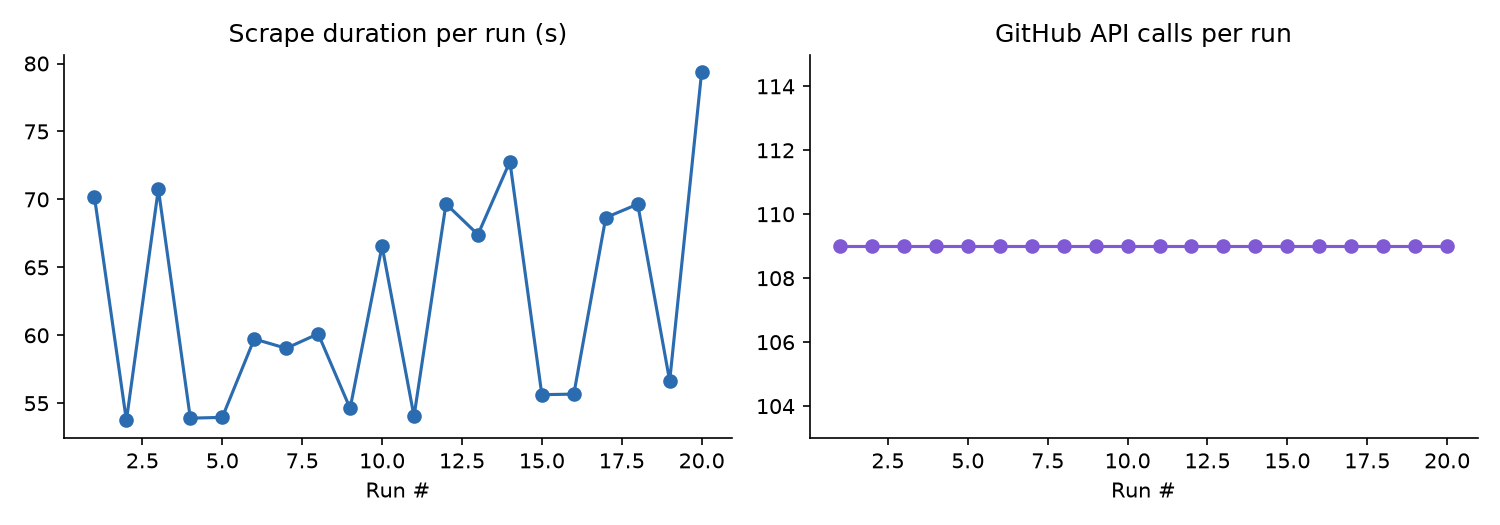
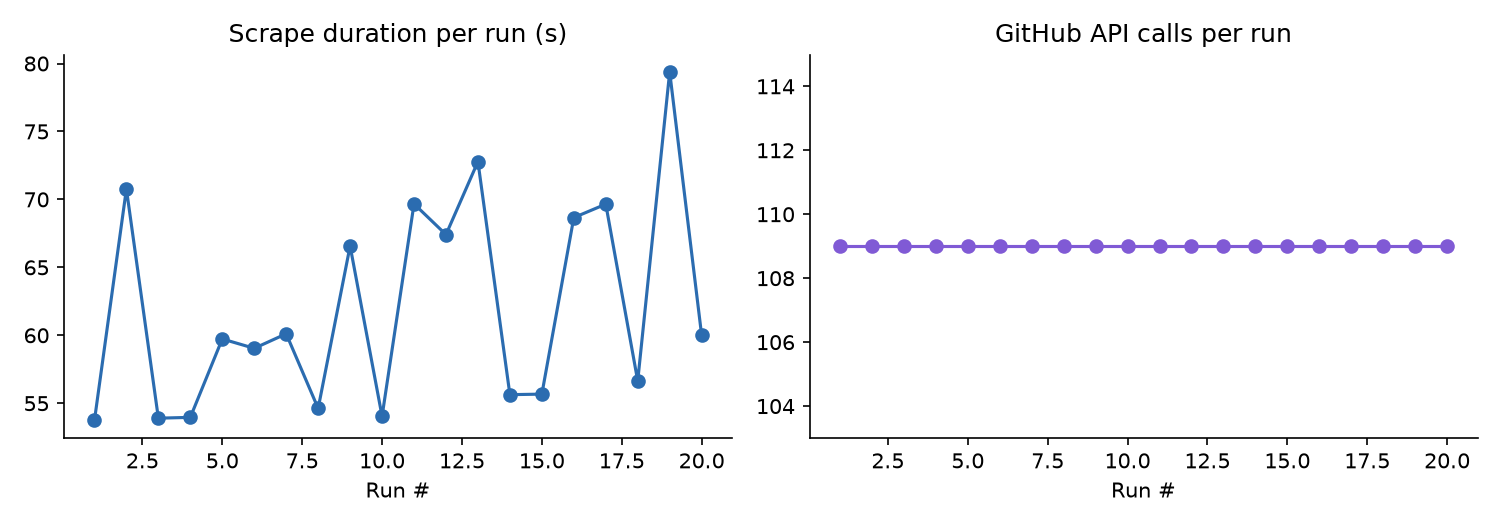
Weekly issue tracker refresh

Changed region(s): [[0.0613, 0.3048, 0.368, 0.8229], [0.3373, 0.1219, 0.4907, 0.7619]]

diff --git a/README.md b/README.md
@@ -81,7 +81,7 @@ See [CONTRIBUTING.md](CONTRIBUTING.md) for the full contributor workflow — inc
 
 <!-- TRACKER:START -->
 
-_Last updated: 2026-08-10 07:02 UTC_
+_Last updated: 2026-08-10 08:45 UTC_
 
 _Tracking **18** upstream repos, **379** relevant open issues._
 
@@ -125,11 +125,11 @@ _Tracking **18** upstream repos, **379** relevant open issues._
 | Score | Issue | Labels | Comments | Updated |
 |---|---|---|---|---|
 | ★★☆☆☆ | [#12541](https://github.com/ansible-collections/community.general/issues/12541) golang_package module cannot properly manage commands with main package at root | bug, module, plugins | 2 | 2026-08-08 |
-| ★★☆☆☆ | [#12530](https://github.com/ansible-collections/community.general/issues/12530) terraform displaying plan name twice for return value for ```command``` | bug, module, plugins | 2 | 2026-08-06 |
 | ★★☆☆☆ | [#9283](https://github.com/ansible-collections/community.general/issues/9283) ufw ordered rules | bug, module, plugins | 4 | 2026-08-05 |
 | ★★☆☆☆ | [#12513](https://github.com/ansible-collections/community.general/issues/12513) krb_ticket only checks for ticket existance, not expiration | bug, module, plugins | 3 | 2026-08-03 |
 | ★★☆☆☆ | [#8481](https://github.com/ansible-collections/community.general/issues/8481) Parted won't resize in use partition | bug, module, plugins | 7 | 2026-07-30 |
 | ★★☆☆☆ | [#12502](https://github.com/ansible-collections/community.general/issues/12502) git_config: allow empty string in `user.email` | bug, module, plugins | 3 | 2026-07-29 |
+| ★★☆☆☆ | [#12501](https://github.com/ansible-collections/community.general/issues/12501) copr: fails on Fedora 44 (dnf5) | bug, module, plugins | 2 | 2026-07-29 |
 | ★☆☆☆☆ | [#12514](https://github.com/ansible-collections/community.general/issues/12514) include Augeas module | feature | 2 | 2026-08-03 |
 | ★☆☆☆☆ | [#11574](https://github.com/ansible-collections/community.general/issues/11574) pacemaker_stonith: Resource polling timeout | bug, module, has_pr, traceback, plugins | 12 | 2026-07-30 |
 
@@ -137,11 +137,11 @@ _Tracking **18** upstream repos, **379** relevant open issues._
 
 | Score | Issue | Labels | Comments | Updated |
 |---|---|---|---|---|
+| ★★☆☆☆ | [#79293](https://github.com/ansible/ansible/issues/79293) combine(.. , list_merge='append') filter does not work correctly with two equivalent vars | bug, P3, affects_2.11 | 2 | 2026-08-10 |
 | ★★☆☆☆ | [#87148](https://github.com/ansible/ansible/issues/87148) `run_once` + `register_host_variables` shares variable state across hosts in the batch (affects `set_fact`, and any action plugin using the new v2.21 dynamic var API) | bug, has_pr, affects_2.21 | 2 | 2026-08-07 |
 | ★★☆☆☆ | [#85147](https://github.com/ansible/ansible/issues/85147) apt will fail when package pinned with high pin priority | module, bug, has_pr, affects_2.19 | 3 | 2026-08-07 |
 | ★★☆☆☆ | [#87366](https://github.com/ansible/ansible/issues/87366) dnf/package regression in ansible-core 2.21: DNF plugin stdout causes JSON parsing failure | module, needs_triage, bug, has_pr, affects_2.21 | 1 | 2026-08-06 |
 | ★★☆☆☆ | [#87358](https://github.com/ansible/ansible/issues/87358) Delegated host address missing from host label for all loop items after the first (regression in 2.21) | needs_triage, bug, has_pr, affects_2.21 | 1 | 2026-08-06 |
-| ★★☆☆☆ | [#87359](https://github.com/ansible/ansible/issues/87359) 2.20 hostvars undefined | needs_triage, bug | 3 | 2026-08-06 |
 | ★☆☆☆☆ | [#87365](https://github.com/ansible/ansible/issues/87365) ansible.builtin.systemd_service - support use of wildcard for instantiated template services | module, needs_triage, feature | 1 | 2026-08-10 |
 | ★☆☆☆☆ | [#62826](https://github.com/ansible/ansible/issues/62826) pip module always set to changed when using check mode | module, bug, affects_2.8, P3, needs_verified | 19 | 2026-08-09 |
 | ★☆☆☆☆ | [#86056](https://github.com/ansible/ansible/issues/86056) Expand test coverage of DataLoader.path_dwim_relative_stack | has_pr, feature, P3 | 1 | 2026-08-07 |
@@ -188,7 +188,7 @@ _Tracking **18** upstream repos, **379** relevant open issues._
 
 | Score | Issue | Labels | Comments | Updated |
 |---|---|---|---|---|
-| ★★★☆☆ | [#112733](https://github.com/kubernetes/kubernetes/issues/112733) Node lifecycle controller does not `markPodsNotReady` when the node `Ready` state changes from `false` to `unknown` | kind/bug, sig/node, help wanted, good first issue, triage/accepted | 31 | 2026-08-03 |
+| ★★★☆☆ | [#112733](https://github.com/kubernetes/kubernetes/issues/112733) Node lifecycle controller does not `markPodsNotReady` when the node `Ready` state changes from `false` to `unknown` | kind/bug, sig/node, help wanted, good first issue, triage/accepted | 33 | 2026-08-10 |
 | ★★★☆☆ | [#109717](https://github.com/kubernetes/kubernetes/issues/109717) tracker: improve the kubelet test coverage | sig/node, help wanted, good first issue, needs-triage | 51 | 2026-08-02 |
 | ★★★☆☆ | [#115782](https://github.com/kubernetes/kubernetes/issues/115782) Write the stress test for gRPC, http, and tcp probes | priority/backlog, kind/cleanup, sig/node, help wanted, good first issue, needs-triage | 41 | 2026-08-02 |
 | ★★★☆☆ | [#25836](https://github.com/kubernetes/kubernetes/issues/25836) Audit all APIs for selector fields, ensure documented semantics when nil or empty. | priority/backlog, help wanted, sig/architecture, lifecycle/frozen | 8 | 2026-07-28 |
@@ -289,7 +289,7 @@ _Tracking **18** upstream repos, **379** relevant open issues._
 
 <!-- METRICS:START -->
 
-_Last run: 2026-08-10 07:00 UTC, took **79.4s**, **109** GitHub API calls, **4891/5000** rate limit remaining._
+_Last run: 2026-08-10 08:44 UTC, took **60.0s**, **109** GitHub API calls, **4891/5000** rate limit remaining._
 
 ![Scrape metrics trend](assets/metrics_trend.png)
 
